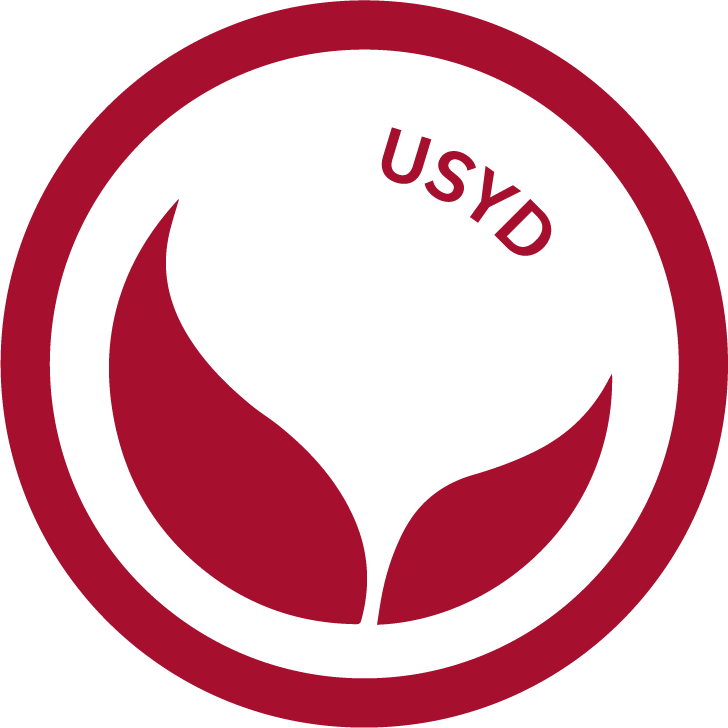
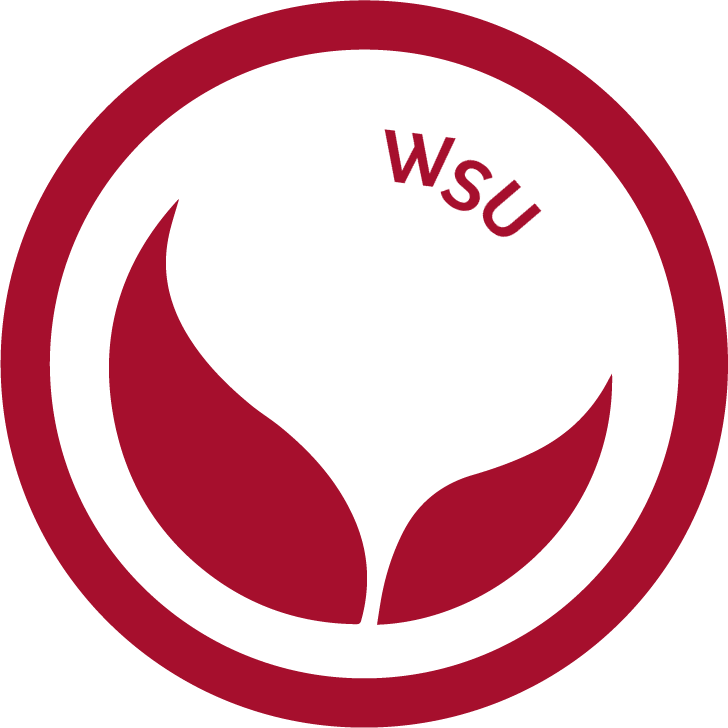
fix: WSU mark letters, deleted dropdown options shown as ids, export date hint
The Western Sydney campus mark was a recoloured copy of the USYD mark;
rebuild it from the existing letterforms so it reads WSU. A dropdown
answer whose option was later deleted showed its raw id in roll call,
members and exports; show nothing instead. The export sheet outlines
the empty From date instead of explaining it, and drops the duplicate
Tags heading.

Changed region(s): [[0.5137, 0.1813, 0.7555, 0.3626]]

diff --git a/src/components/NativeDateTimeField.tsx b/src/components/NativeDateTimeField.tsx
@@ -31,6 +31,7 @@ const FieldButton = ({
   icon,
   onOpen,
   onClear,
+  needed,
 }: {
   label: string;
   display: string;
@@ -38,6 +39,7 @@ const FieldButton = ({
   icon: keyof typeof Ionicons.glyphMap;
   onOpen: () => void;
   onClear?: () => void;
+  needed?: boolean;
 }) => {
   const t = useAppTheme();
   return (
@@ -51,6 +53,8 @@ const FieldButton = ({
           height: 44,
           paddingHorizontal: 12,
           borderRadius: 10,
+          borderWidth: 1.5,
+          borderColor: needed && !hasValue ? t.primary : "transparent",
           backgroundColor: t.inputBackground,
         }}
       >
@@ -63,10 +67,10 @@ const FieldButton = ({
             pressed && { opacity: 0.7 },
           ]}
         >
-          <Ionicons name={icon} size={16} color={t.faint} />
+          <Ionicons name={icon} size={16} color={needed && !hasValue ? t.primary : t.faint} />
           <Txt
             numberOfLines={1}
-            style={[typography.body, { flex: 1, color: hasValue ? t.text : t.faint }]}
+            style={[typography.body, { flex: 1, color: hasValue ? t.text : needed ? t.primary : t.faint }]}
           >
             {display}
           </Txt>
@@ -95,6 +99,7 @@ export const NativeDateInput = ({
   placeholder = "Select date",
   onChange,
   onClear,
+  needed,
 }: {
   label: string;
   value: string;
@@ -103,6 +108,7 @@ export const NativeDateInput = ({
   placeholder?: string;
   onChange: (value: string) => void;
   onClear?: () => void;
+  needed?: boolean;
 }) => {
   const t = useAppTheme();
   const [open, setOpen] = useState(false);
@@ -119,6 +125,7 @@ export const NativeDateInput = ({
         display={current ? formatDateDisplay(current) : placeholder}
         onOpen={() => setOpen(true)}
         onClear={onClear ? () => onClear() : undefined}
+        needed={needed}
       />
       <Sheet
         visible={open}

diff --git a/src/components/WebDateTimeInput.tsx b/src/components/WebDateTimeInput.tsx
@@ -68,6 +68,7 @@ const WebPickerField = ({
   max,
   onChange,
   onClear,
+  needed,
 }: {
   label: string;
   type: "date" | "time";
@@ -79,6 +80,7 @@ const WebPickerField = ({
   max?: string;
   onChange: (value: string) => void;
   onClear?: () => void;
+  needed?: boolean;
 }) => {
   const t = useAppTheme();
   const [focused, setFocused] = useState(false);
@@ -95,14 +97,14 @@ const WebPickerField = ({
           paddingHorizontal: 12,
           borderRadius: 10,
           borderWidth: 1.5,
-          borderColor: focused ? t.primary : "transparent",
+          borderColor: focused || (needed && !display) ? t.primary : "transparent",
           backgroundColor: t.inputBackground,
         }}
       >
-        <Ionicons name={icon} size={16} color={t.faint} />
+        <Ionicons name={icon} size={16} color={needed && !display ? t.primary : t.faint} />
         <Txt
           numberOfLines={1}
-          style={[typography.body, { flex: 1, color: display ? t.text : t.faint }]}
+          style={[typography.body, { flex: 1, color: display ? t.text : needed ? t.primary : t.faint }]}
         >
           {display ?? placeholder}
         </Txt>
@@ -149,6 +151,7 @@ export const WebDateInput = ({
   placeholder = "Select date",
   onChange,
   onClear,
+  needed,
 }: {
   label: string;
   value: string;
@@ -157,6 +160,7 @@ export const WebDateInput = ({
   placeholder?: string;
   onChange: (value: string) => void;
   onClear?: () => void;
+  needed?: boolean;
 }) => {
   const date = parseDateInputValue(value);
   return (
@@ -171,6 +175,7 @@ export const WebDateInput = ({
       max={max}
       onChange={onChange}
       onClear={onClear}
+      needed={needed}
     />
   );
 };

diff --git a/src/components/attendance/ExportSheet.tsx b/src/components/attendance/ExportSheet.tsx
@@ -308,6 +308,7 @@ export function ExportSheet({
                   min={toInputDate(MIN_DATE.getTime())}
                   max={toInputDate(toMs ?? nowMs)}
                   onChange={(s) => setFromMs(fromInputDate(s))}
+                  needed
                 />
                 <WebDateInput
                   label="To"
@@ -327,6 +328,7 @@ export function ExportSheet({
                   min={toInputDate(MIN_DATE.getTime())}
                   max={toInputDate(toMs ?? nowMs)}
                   onChange={(s) => setFromMs(fromInputDate(s))}
+                  needed
                 />
                 <NativeDateInput
                   label="To"
@@ -340,22 +342,9 @@ export function ExportSheet({
               </>
             )}
           </View>
-          {fromMs == null ? (
-            <Txt
-              style={[
-                typography.caption,
-                { color: t.muted, marginTop: spacing.xs },
-              ]}
-            >
-              Pick a start date to export. End date defaults to today.
-            </Txt>
-          ) : null}
-
-          <Txt style={[typography.label, styles.heading, { color: t.muted }]}>
-            Tags (optional)
-          </Txt>
+          <View style={{ height: spacing.md }} />
           <MultiSelect
-            label="Filter by tags"
+            label="Tags"
             values={selectedTags as unknown as string[]}
             options={(tags ?? []).map((tag) => ({
               label: tag.name,

diff --git a/shared/attendanceMemberMeta.test.ts b/shared/attendanceMemberMeta.test.ts
@@ -197,6 +197,8 @@ describe("gender and field helpers", () => {
       resolveCommencementYear("not-a-year", 2026, YEAR_OPTIONS)
     ).toBeNull();
     expect(formatMetadataFieldValue("Notes", "hello", 2026)).toBe("hello");
+    expect(formatMetadataFieldValue("Gender", "2", 2026, { 1: "Male", 2: "Female" })).toBe("Female");
+    expect(formatMetadataFieldValue("Gender", "3", 2026, { 1: "Male", 2: "Female" })).toBeNull();
   });
 
   test("partitionSelectOptions sort covers bi-in-order branch", () => {

diff --git a/shared/attendanceMemberMeta.ts b/shared/attendanceMemberMeta.ts
@@ -124,7 +124,7 @@ export const formatMetadataFieldValue = (
     if (commencement === null) return null;
     return studentYearLevelFromCommencement(commencement, viewingYear);
   }
-  if (fieldValues?.[stored]) return fieldValues[stored];
+  if (fieldValues) return fieldValues[stored] ?? null;
   return stored;
 };
 
